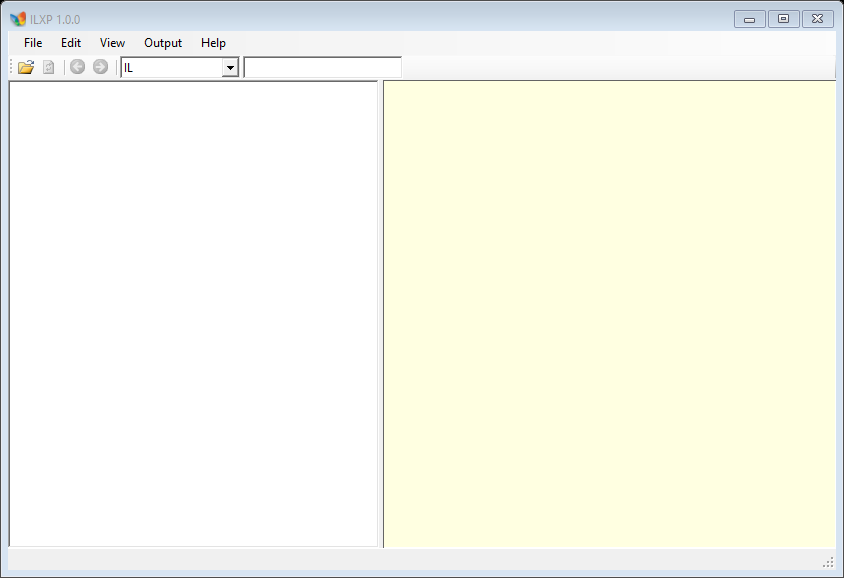
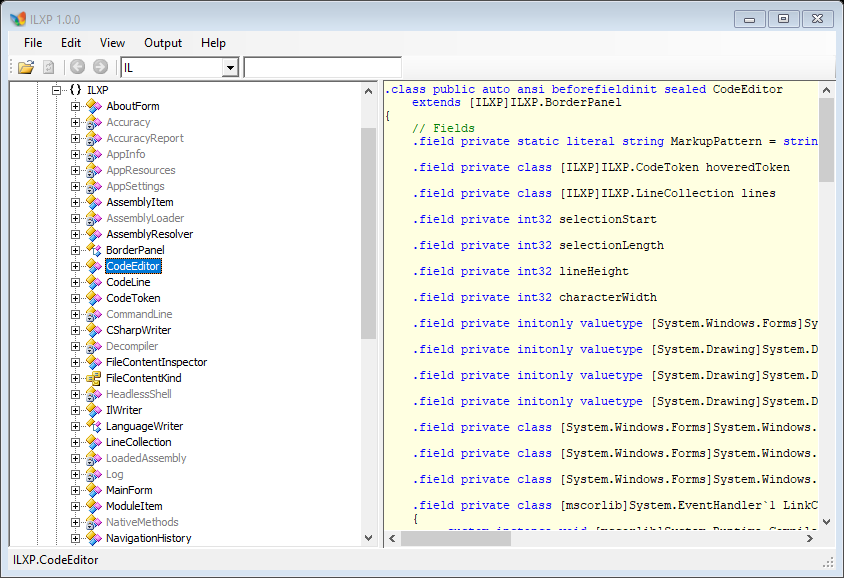
fix(ci): declare solution configurations, build platforms per project, capture screenshot with real content

diff --git a/src/ILXP/MainForm.cs b/src/ILXP/MainForm.cs
@@ -26,6 +26,110 @@ namespace ILXP
         /// <summary>Set by automation (screenshots, tests) to avoid modal startup dialogs.</summary>
         internal bool SuppressStartupDialogs { get; set; }
 
+        /// <summary>
+        /// Loads an assembly and selects a type, without any dialog. Used by the
+        /// <c>--screenshot</c> command so that documentation images show real content.
+        /// </summary>
+        internal bool LoadForCapture(string assemblyPath, string typeName)
+        {
+            try
+            {
+                // Synchronous on purpose: the capture runs on the UI thread without a
+                // message loop, so the asynchronous loader (and its overlay) must be skipped.
+                TreeNode node = BuildAssemblyTree(assemblyPath);
+                if (node == null)
+                {
+                    return false;
+                }
+
+                treeView.BeginUpdate();
+                try
+                {
+                    AddOrReplaceAssemblyNode(node);
+                    node.Expand();
+                    if (node.Nodes.Count > 0)
+                    {
+                        node.Nodes[0].Expand();
+                    }
+                }
+                finally
+                {
+                    treeView.EndUpdate();
+                }
+
+                TreeNode selected = string.IsNullOrEmpty(typeName) ? node : FindTypeNode(node, typeName);
+                if (selected == null)
+                {
+                    selected = node;
+                }
+
+                TreeNode parent = selected.Parent;
+                while (parent != null)
+                {
+                    parent.Expand();
+                    parent = parent.Parent;
+                }
+
+                treeView.SelectedNode = selected;
+                selected.EnsureVisible();
+                return true;
+            }
+            catch (Exception ex)
+            {
+                Log.Warn("Unable to prepare the window for capture.", ex);
+                return false;
+            }
+        }
+
+        /// <summary>Finds a type node by full or short name, expanding only matching namespaces.</summary>
+        private TreeNode FindTypeNode(TreeNode node, string typeName)
+        {
+            if (node.Tag is TypeDefinition)
+            {
+                TypeDefinition type = (TypeDefinition)node.Tag;
+                if (string.Equals(type.FullName, typeName, StringComparison.Ordinal) ||
+                    string.Equals(type.Name, typeName, StringComparison.Ordinal) ||
+                    string.Equals(LanguageWriter.GetShortTypeName(type), typeName, StringComparison.Ordinal))
+                {
+                    return node;
+                }
+            }
+
+            // Only descend into namespaces that can actually contain the requested type.
+            // Expanding everything would load every reference and build every member,
+            // which looks like a hang on large assemblies.
+            string expectedNamespace = null;
+            int lastDot = typeName.LastIndexOf('.');
+            if (lastDot > 0)
+            {
+                expectedNamespace = typeName.Substring(0, lastDot);
+            }
+
+            ExpandLazyNode(node);
+            foreach (TreeNode child in node.Nodes)
+            {
+                ModuleItem module = child.Tag as ModuleItem;
+                if (module != null && expectedNamespace != null &&
+                    !string.Equals(module.Namespace, expectedNamespace, StringComparison.Ordinal))
+                {
+                    continue;
+                }
+
+                AssemblyNameReference reference = child.Tag as AssemblyNameReference;
+                if (reference != null)
+                {
+                    continue; // references are never expanded while searching
+                }
+
+                TreeNode found = FindTypeNode(child, typeName);
+                if (found != null)
+                {
+                    return found;
+                }
+            }
+            return null;
+        }
+
         public MainForm()
         {
             navigationHistory = new NavigationHistory();
@@ -888,7 +992,10 @@ namespace ILXP
             catch (Exception ex)
             {
                 Log.Error("Unable to load '" + path + "'.", ex);
-                MessageBox.Show(this, string.Format("Unable to load the file \"{0}\".", path), "Cannot Load File");
+                if (!SuppressStartupDialogs)
+                {
+                    MessageBox.Show(this, string.Format("Unable to load the file \"{0}\".", path), "Cannot Load File");
+                }
                 return null;
             }
         }

diff --git a/src/ILXP/CommandLine.cs b/src/ILXP/CommandLine.cs
@@ -355,6 +355,17 @@ namespace ILXP
                     }
                 }
 
+                MainForm main = form as MainForm;
+                if (main != null && !string.IsNullOrEmpty(options.Input))
+                {
+                    main.LoadForCapture(options.Input, options.Select);
+                    for (int i = 0; i < 25; i++)
+                    {
+                        Application.DoEvents();
+                        System.Threading.Thread.Sleep(40);
+                    }
+                }
+
                 using (Bitmap bitmap = new Bitmap(form.Width, form.Height))
                 {
                     form.DrawToBitmap(bitmap, new Rectangle(0, 0, form.Width, form.Height));
@@ -408,7 +419,6 @@ namespace ILXP
             }
             return new AboutForm();
         }
-
         private static int MusicCommand(Options options)
         {
             string input = options.Input;
@@ -750,7 +760,7 @@ namespace ILXP
             Console.WriteLine("  ILXP --disasm-x86 <file> [--offset <n>] [--length <n>] [--x64]");
             Console.WriteLine("  ILXP --clean <assembly> [--output <assembly>]   run IL cleanup passes");
             Console.WriteLine("  ILXP --music <file.mid|file.txt> [--output <out.mid|out.txt|out.wav>]");
-            Console.WriteLine("  ILXP --screenshot <out.png> [--window about|main]");
+            Console.WriteLine("  ILXP --screenshot <out.png> [--window about|main] [--open <assembly>] [--select <type>]");
             Console.WriteLine();
             Console.WriteLine("Decompile options:");
             Console.WriteLine("  --language <il|cs|vb>   output language (default: il)");
@@ -783,6 +793,7 @@ namespace ILXP
             public int Height { get; private set; }
             public int Frames { get; private set; }
             public bool VerboseOutput { get; private set; }
+            public string Select { get; private set; }
             public bool UseNativeTools { get; private set; }
 
             public static Options Parse(string[] args)
@@ -853,6 +864,12 @@ namespace ILXP
                             break;
                         case "--window":
                             options.Window = Next(args, ref i, argument);
+                            break;
+                        case "--open":
+                            options.Input = Next(args, ref i, argument);
+                            break;
+                        case "--select":
+                            options.Select = Next(args, ref i, argument);
                             break;
                         case "--volume":
                             options.MusicVolume = float.Parse(Next(args, ref i, argument), CultureInfo.InvariantCulture);

diff --git a/README.md b/README.md
@@ -7,10 +7,8 @@ decompiled copy of the old **CodeReflect** decompiler (DevExtras) and is being r
 maintainable, deobfuscated application with additional functionality merged from other open
 tools (ILSpy, dnSpy, de4dot and the Unscrambler feature set).
 
-The About box doubles as a little demo of the built-in music engine and of the interactive
-water effect:
-
-![ILXP about box](docs/screenshot-about.png)
+The screenshot above is ILXP decompiling **itself**: the tree shows the real types of
+`ILXP.exe`, and the right pane shows the IL view of `ILXP.CodeEditor`.
 
 The project is deliberately conservative:
 
@@ -26,16 +24,22 @@ Requirements: .NET SDK (tested with 9.x) and the .NET Framework 4.0 reference as
 (installed with Visual Studio or the Windows SDK).
 
 ```powershell
+# Any CPU (default solution configuration)
 dotnet build ILXP.slnx
+
+# x86 / x64 (the .slnx only declares "Any CPU", so target the project directly)
+dotnet build src\ILXP\ILXP.csproj -c Release -p:Platform=x86
+dotnet build src\ILXP\ILXP.csproj -c Release -p:Platform=x64
 ```
 
 Output:
 
 * `src/ILXP/bin/Debug/net40/ILXP.exe` – AnyCPU application
-* `src/ILXP/bin/x86/Debug/net40/ILXP.exe` – x86 build (`-p:Platform=x86`)
-* `src/ILXP/bin/x64/Debug/net40/ILXP.exe` – x64 build (`-p:Platform=x64`)
+* `src/ILXP/bin/x86/Debug/net40/ILXP.exe` – x86 build
+* `src/ILXP/bin/x64/Debug/net40/ILXP.exe` – x64 build
 
-The `native/` folder (ILDasm, ILAsm, BeaEngine, fusion.dll) is copied next to the executable.
+The build produces a **single executable**: Mono.Cecil is compiled into `ILXP.exe`, and the
+`native/` folder is no longer shipped (all native tools have managed replacements).
 
 ## Running
 
@@ -58,7 +62,8 @@ ILXP --ilasm <file.il> [--output <assembly>] [--dll] [--x86|--x64] [--native]
 ILXP --disasm-x86 <file> [--offset <n>] [--length <n>] [--x64]
 ILXP --clean <assembly> [--output <assembly>]
 ILXP --music <file.mid|file.txt> [--output <out.mid|out.txt|out.wav>]
-ILXP --screenshot <out.png> [--window about|main]
+ILXP --screenshot <out.png> [--window about|main] [--open <assembly>] [--select <type>]
+ILXP --render-water <out.png> [--width <n>] [--height <n>] [--frames <n>]
 ```
 
 Output dialects (`--dialect`): `cs1` C# 1.0 / VS 2002, `cs2` C# 2.0 / VS 2005, `cs3` C# 3.0,
@@ -75,6 +80,8 @@ Notes:
   assembly. Strong-name signatures are not preserved.
 * `--music` converts between `.mid` and the text format, and renders `.wav` with the built-in
   chiptune synthesizer.
+* `--screenshot --open <assembly> --select <type>` loads an assembly and selects a type before
+  capturing, which is how `docs/screenshot-main.png` is produced.
 
 ## Testing
 

diff --git a/PROJECT_STATE.md b/PROJECT_STATE.md
@@ -104,9 +104,8 @@ src\ILXP\bin\Debug\net40\ILXP.exe --disasm-x86 file.bin --offset 0 --length 64
 src\ILXP\bin\Debug\net40\ILXP.exe --music src\ILXP\Music\Tracks\T2JD.txt --output out.mid
 src\ILXP\bin\Debug\net40\ILXP.exe --music out.mid --output out.wav
 
-# automation screenshots
-src\ILXP\bin\Debug\net40\ILXP.exe --screenshot docs\screenshot-about.png --window about
-src\ILXP\bin\Debug\net40\ILXP.exe --screenshot docs\screenshot-main.png --window main
+# automation screenshot (loads an assembly and selects a type)
+src\ILXP\bin\Debug\net40\ILXP.exe --screenshot docs\screenshot-main.png --window main --open src\ILXP\bin\Debug\net40\ILXP.exe --select ILXP.CodeEditor
 src\ILXP\bin\Debug\net40\ILXP.exe --render-water docs\water.png
 ```
 
